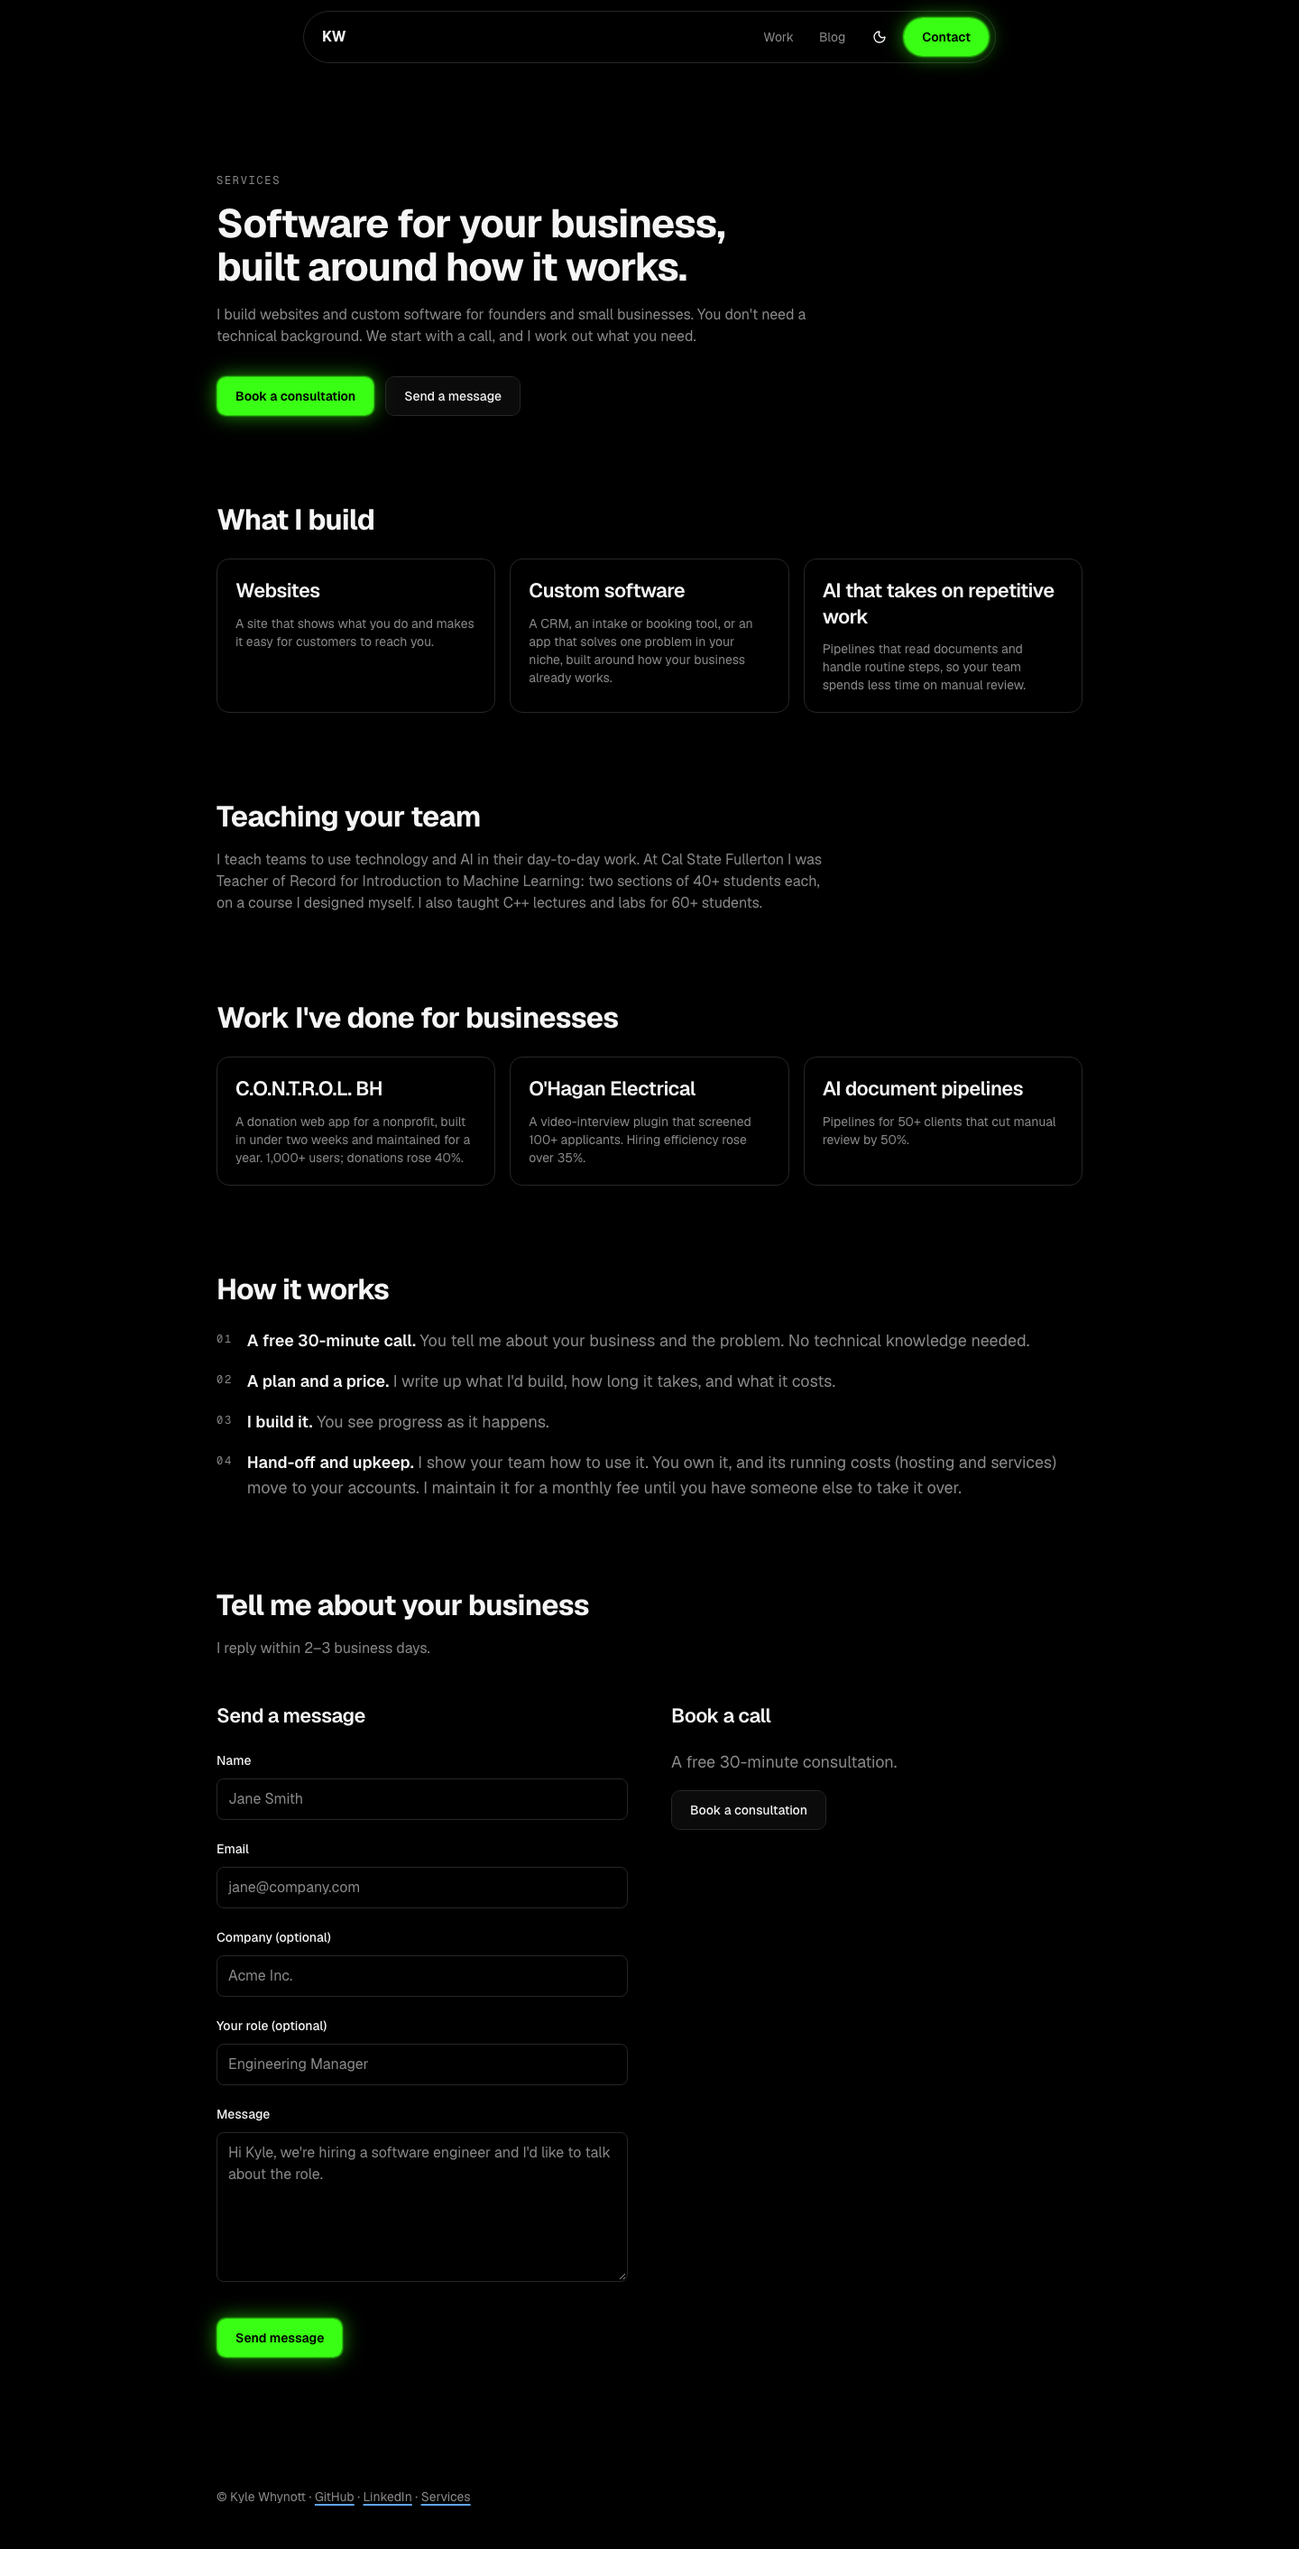
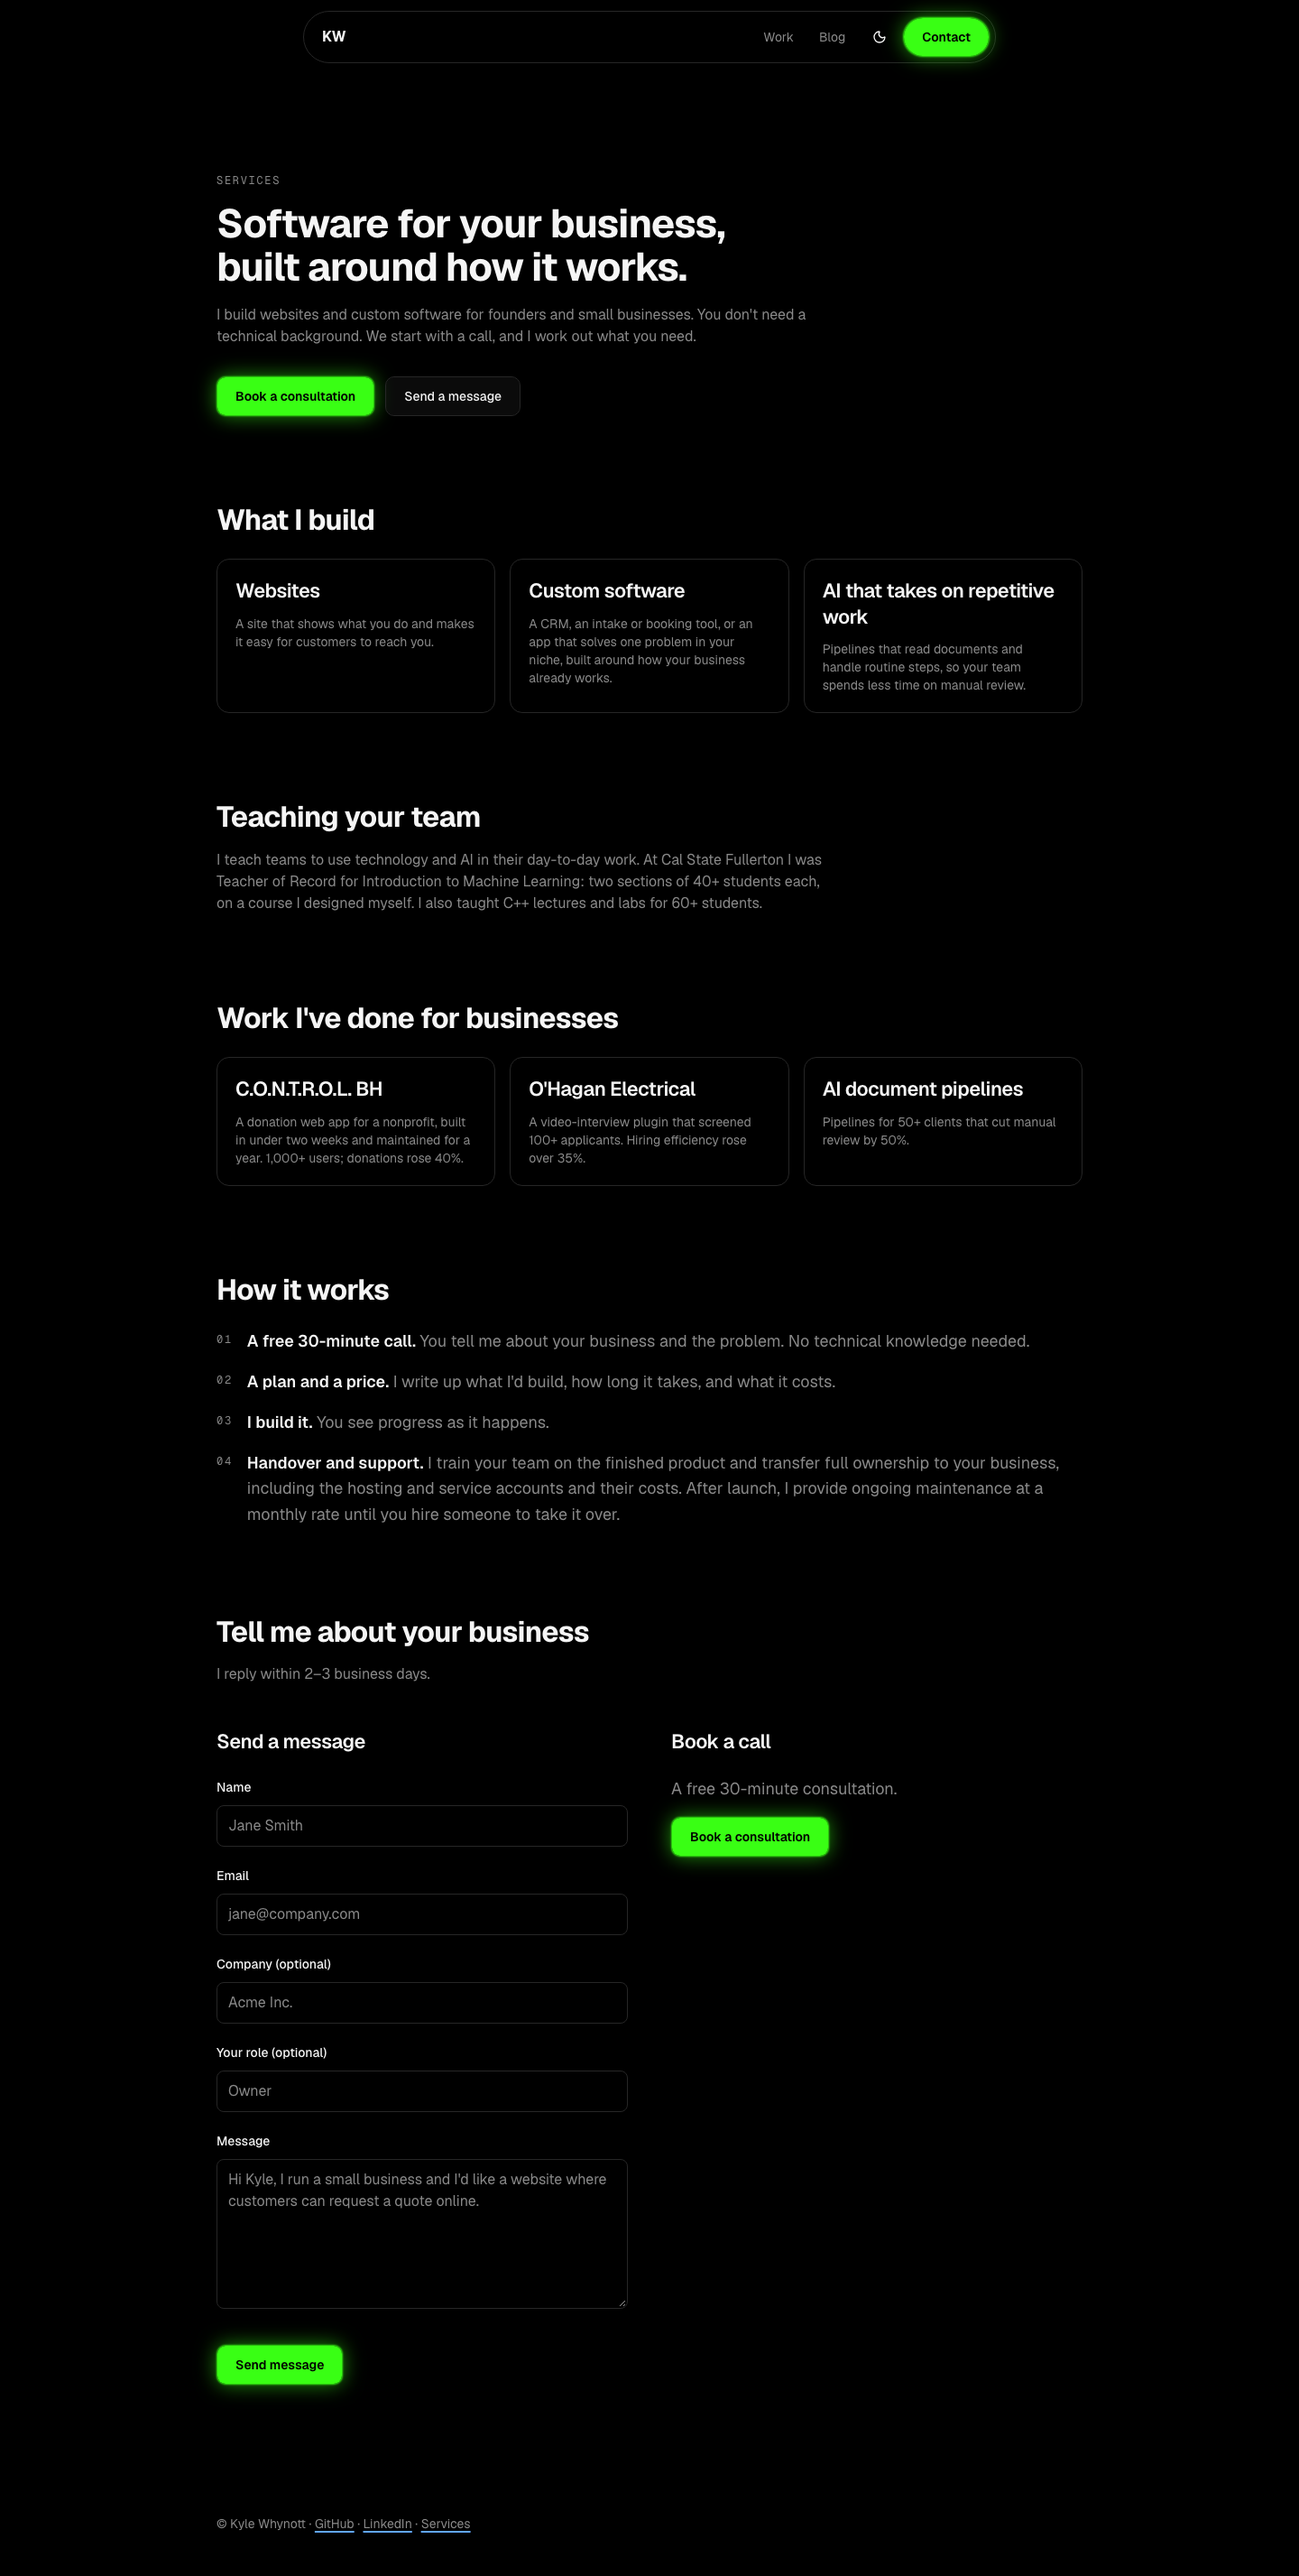
feat(services): professional step 4, a founder's request as the form example, accent booking button (Kyle)
Claude-Session: https://claude.ai/code/session_01N5M7LMEi61DpJ264MgKNqJ

diff --git a/tests/unit/services.test.tsx b/tests/unit/services.test.tsx
@@ -58,11 +58,18 @@ test("the approved headline, three offers, training, three projects, four steps"
   ).toBeInTheDocument();
 });
 
-test("step 4 is Kyle's hand-off and upkeep terms", () => {
+test("step 4 states Kyle's handover and maintenance terms", () => {
   expect(SERVICES_COPY.steps[3]).toEqual({
-    title: "Hand-off and upkeep.",
-    text: "I show your team how to use it. You own it, and its running costs (hosting and services) move to your accounts. I maintain it for a monthly fee until you have someone else to take it over.",
+    title: "Handover and support.",
+    text: "I train your team on the finished product and transfer full ownership to your business, including the hosting and service accounts and their costs. After launch, I provide ongoing maintenance at a monthly rate until you hire someone to take it over.",
   });
+});
+
+test("the booking button on Services uses the call-to-action colour", () => {
+  render(<ServicesPage />);
+  expect(
+    screen.getByRole("button", { name: "Book a consultation" }),
+  ).toHaveClass("accent-glow");
 });
 
 test("off: the page 404s and has no canonical", async () => {

diff --git a/src/components/contact/booking.tsx b/src/components/contact/booking.tsx
@@ -42,8 +42,11 @@ export function Booking({
   intro = "A 30-minute intro call.",
   label = "Book a call",
   openOnHash,
+  accent = false,
   timeoutMs = 10_000,
 }: {
+  /** The call-to-action colour, where booking is the page's main action (Services). */
+  accent?: boolean;
   /**
    * Opens the calendar when the page's hash becomes this (e.g. "#book"), so a
    * link elsewhere on the page can book directly. Without JS it's a jump link.
@@ -134,7 +137,7 @@ export function Booking({
       {calLink && (phase === "idle" || phase === "loading") && (
         <Button
           type="button"
-          variant="outline"
+          variant={accent ? "default" : "outline"}
           disabled={phase === "loading"}
           onClick={() => setPhase("loading")}
           className="h-11 px-5 text-sm"

diff --git a/src/components/contact/contact-form.tsx b/src/components/contact/contact-form.tsx
@@ -45,11 +45,11 @@ const PLACEHOLDERS: Record<ContactField, string> = {
   message:
     "Hi Kyle, we're hiring a software engineer and I'd like to talk about the role.",
 };
-// On Services, a founder writes, not a recruiter (proposal, pending Kyle's call).
+// On Services, a founder writes about what they need, not a recruiter (Kyle, 2026-11-27).
 const SERVICES_PLACEHOLDERS: Partial<Record<ContactField, string>> = {
   role: "Owner",
   message:
-    "Hi Kyle, I run a small business and need a simpler way to keep track of my customers.",
+    "Hi Kyle, I run a small business and I'd like a website where customers can request a quote online.",
 };
 const AUTOCOMPLETE: Record<ContactField, string> = {
   name: "name",

diff --git a/src/lib/services-copy.ts b/src/lib/services-copy.ts
@@ -60,8 +60,8 @@ export const SERVICES_COPY = {
       text: "You see progress as it happens.",
     },
     {
-      title: "Hand-off and upkeep.",
-      text: "I show your team how to use it. You own it, and its running costs (hosting and services) move to your accounts. I maintain it for a monthly fee until you have someone else to take it over.",
+      title: "Handover and support.",
+      text: "I train your team on the finished product and transfer full ownership to your business, including the hosting and service accounts and their costs. After launch, I provide ongoing maintenance at a monthly rate until you hire someone to take it over.",
     },
   ],
   contact: {

diff --git a/tests/unit/contact-form.test.tsx b/tests/unit/contact-form.test.tsx
@@ -261,7 +261,7 @@ test("on Services, the role and message examples fit a founder", () => {
   );
   expect(screen.getByLabelText("Message")).toHaveAttribute(
     "placeholder",
-    "Hi Kyle, I run a small business and need a simpler way to keep track of my customers.",
+    "Hi Kyle, I run a small business and I'd like a website where customers can request a quote online.",
   );
   // Name, email and company examples are shared.
   expect(screen.getByLabelText("Company (optional)")).toHaveAttribute(

diff --git a/src/app/services/page.tsx b/src/app/services/page.tsx
@@ -159,6 +159,7 @@ export default function ServicesPage() {
                 intro={C.contact.bookingIntro}
                 label={C.cta.book}
                 openOnHash="#book"
+                accent
               />
             </div>
             {calLink && (

diff --git a/docs/plans/slice-07-pr.md b/docs/plans/slice-07-pr.md
@@ -8,7 +8,7 @@
   - Three offers: websites, custom software, and AI for repetitive work.
   - Teaching your team: Teacher of Record for CPSC 483, and the C++ lectures and labs.
   - Three projects with links to their Work pages: C.O.N.T.R.O.L. BH, O'Hagan Electrical and the AI document pipelines.
-  - Four steps, ending in hand-off and upkeep.
+  - Four steps, ending in handover and support.
 - **Booking:** "Book a consultation" opens Cal.com on the page, on your consultation event. The hero button opens it too.
 - **Contact form on the page:** messages from it arrive as **"Services: Name (Company)"**. Any other value is treated as a Contact message, and nothing from it reaches an email header.
 - **Placement B:** not in the nav. Linked from Home's contact section, the Contact page and the footer, only while Services is on.
@@ -50,11 +50,11 @@ A fresh reviewer read the whole branch. Verdict: ready with fixes. All five risk
   6. Two of the three lists aren't labelled the way the steps list is (each sits in a labelled section).
   7. Lighthouse measures Home and Contact only with the Services link showing.
 
-## Needs Kyle's call
+## Kyle's calls (2026-11-27)
 
-1. **Step 4's wording** (from your maintenance answer): "Hand-off and upkeep. I show your team how to use it. You own it, and its running costs (hosting and services) move to your accounts. I maintain it for a monthly fee until you have someone else to take it over."
-2. **The form's examples on Services** (new copy). The Contact examples were a recruiter's. On Services: role **"Owner"**, message **"Hi Kyle, I run a small business and need a simpler way to keep track of my customers."** Name, email and company examples are unchanged.
-3. **Two green buttons on Services:** the hero's "Book a consultation" and the form's "Send message". The Contact page keeps one. The alternative is an outline style for one of them.
+1. **Step 4, reworded for a professional tone** (please confirm the final text): **"Handover and support.** I train your team on the finished product and transfer full ownership to your business, including the hosting and service accounts and their costs. After launch, I provide ongoing maintenance at a monthly rate until you hire someone to take it over."
+2. **Form examples on Services (approved):** role **"Owner"**. The message example is now about what the founder wants built: **"Hi Kyle, I run a small business and I'd like a website where customers can request a quote online."**
+3. **Buttons in the call-to-action colour (approved):** on Services, the hero's "Book a consultation", the booking button and "Send message" all use the accent colour. "Send a message" in the hero stays an outline button as the secondary action. The Contact page is unchanged: one accent button, and its booking button stays outline.
 
 ## Live checklist (after merging)
 
